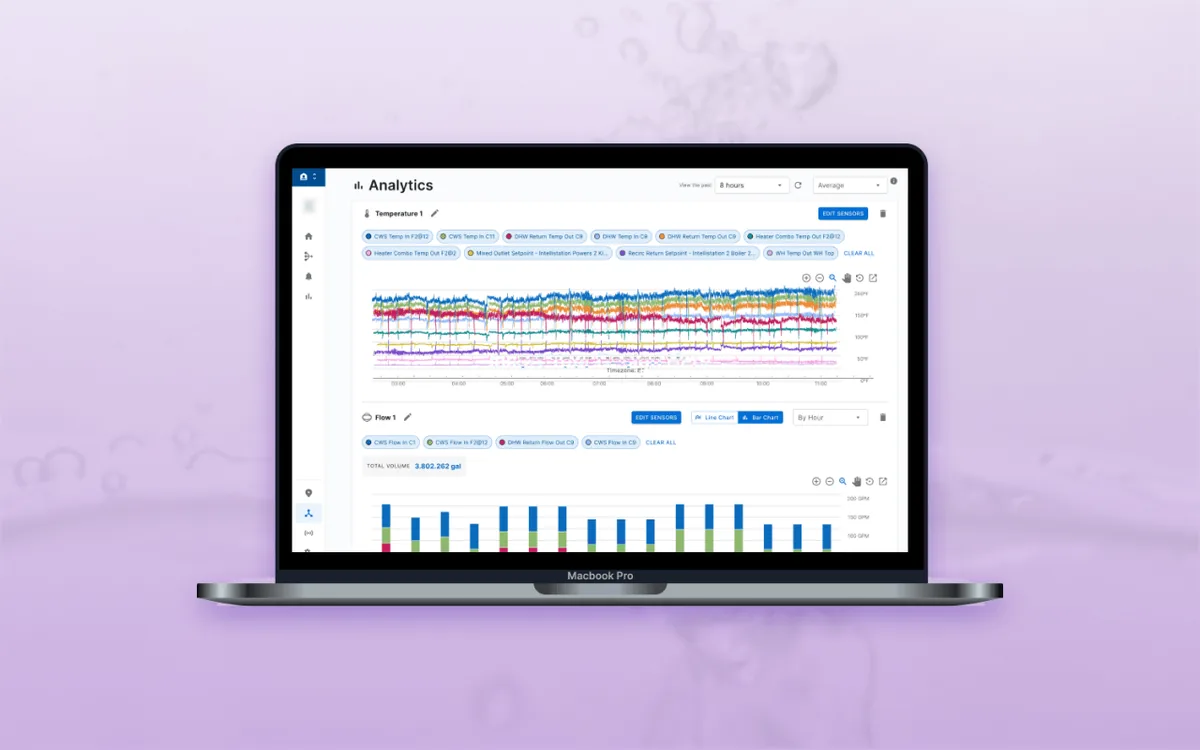
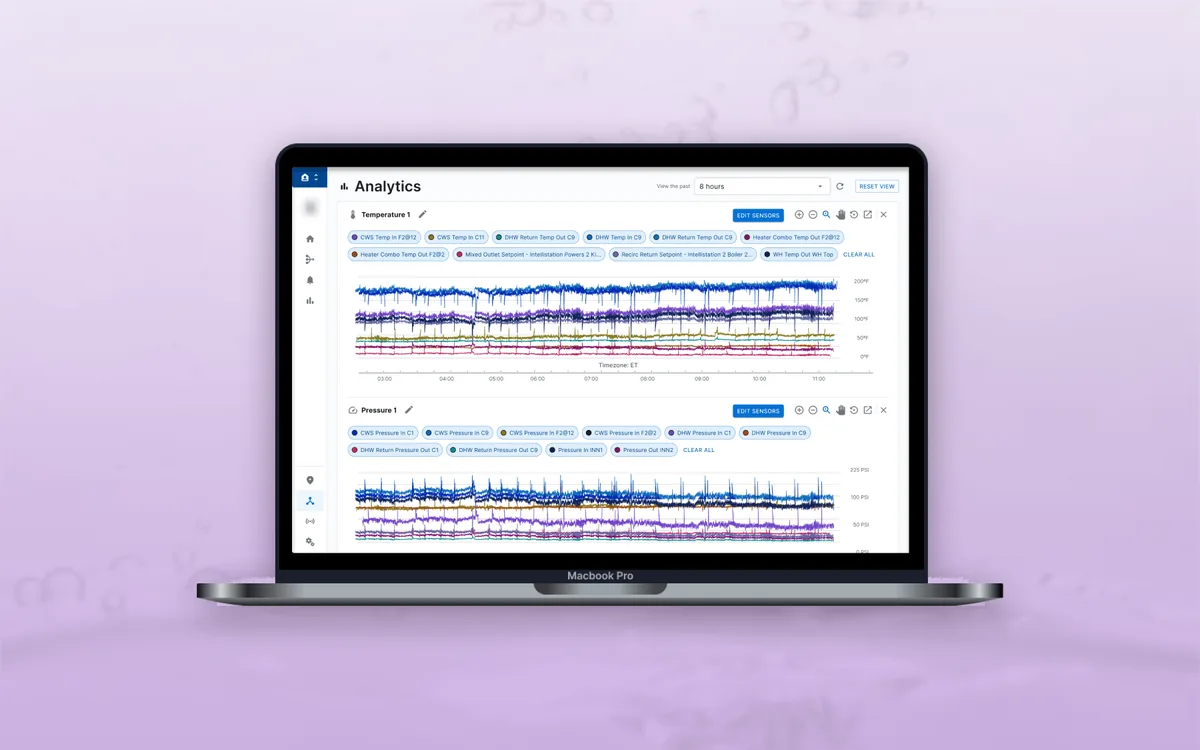
Replace temporary charting cover with the final cover
Claude-Session: https://claude.ai/code/session_01ScZWVVZRBYns7XMJaBR5Qy

diff --git a/index.html b/index.html
@@ -116,7 +116,7 @@
 </div>
 </article>
 <article class="card">
-<div class="cover"><img src="assets/img/cover-charting.webp" alt="Analytics charting screen on a laptop against a pale blue water background" width="1200" height="750" loading="lazy"></div>
+<div class="cover"><img src="assets/img/cover-charting.webp?v=2" alt="Analytics charting screen on a laptop against a pale purple water background" width="1200" height="750" loading="lazy"></div>
 <div class="card-body">
 <ul class="tags"><li class="tag">B2B</li><li class="tag">SaaS</li><li class="tag">IoT</li><li class="tag">Research</li><li class="tag">Web</li></ul>
 <h3>Redesigning Charts to Cut Licensing Costs</h3>
@@ -145,7 +145,7 @@
 </div>
 </article>
 <article class="card card--soon">
-<div class="cover"><img src="assets/img/cover-charting.webp" alt="Analytics charting screen on a laptop against a pale blue water background" width="1200" height="750" loading="lazy"></div>
+<div class="cover"><img src="assets/img/cover-charting.webp?v=2" alt="Analytics charting screen on a laptop against a pale purple water background" width="1200" height="750" loading="lazy"></div>
 <div class="card-body">
 <ul class="tags"><li class="tag">Research</li><li class="tag">Web</li><li class="tag">IoT</li></ul>
 <h3>Redesigning Charts to Cut Licensing Costs</h3>

diff --git a/case-studies/charting.html b/case-studies/charting.html
@@ -44,7 +44,7 @@
 <div><dt>Company</dt><dd>Water IoT Solutions Company</dd></div>
 <div><dt>Team</dt><dd>1 UX UI designer, 1 product owner, and 1 front-end developer</dd></div>
 </dl>
-<figure class="cover-wide"><img src="../assets/img/cover-charting.webp" alt="Analytics charting screen on a laptop against a pale blue water background" width="1200" height="750" fetchpriority="high"></figure>
+<figure class="cover-wide"><img src="../assets/img/cover-charting.webp?v=2" alt="Analytics charting screen on a laptop against a pale purple water background" width="1200" height="750" fetchpriority="high"></figure>
 </div>
 
 <article class="prose">
